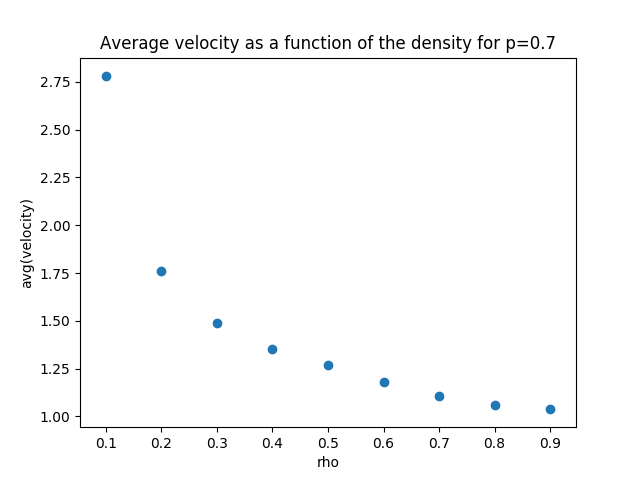
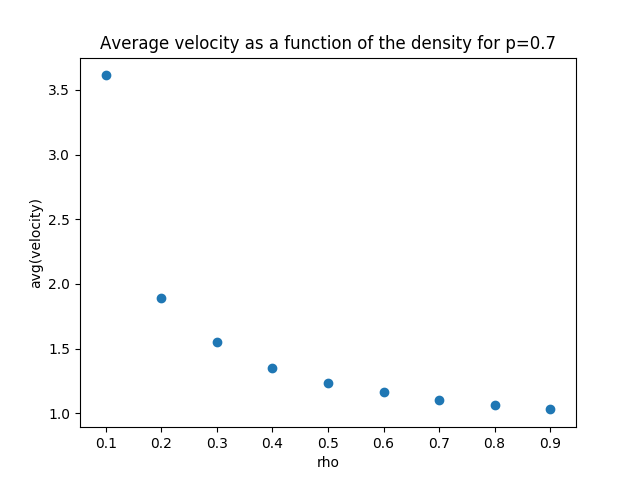
final results for the simple car traffic model

diff --git a/sem2/agent-based modelling/l5/model.py b/sem2/agent-based modelling/l5/model.py
@@ -24,7 +24,9 @@ def distance(m, road):
 def traffic_model(M, rho, p, I=10):
     N = int(M * rho)
     iterations = [0] * I
+    means = [0] * I
     iterations[0] = init_model(M, N)
+    means[0] = np.average(np.array([x for x in iterations[0] if x > -1]))
 
     for i in range(1, I):
         prev_road = iterations[i - 1]
@@ -44,8 +46,10 @@ def traffic_model(M, rho, p, I=10):
 
                 curr_road[(m + vel) % M] = vel  # move
         iterations[i] = curr_road
-    # return iterations
-    return iterations[-1]
+        means[i] = np.average(np.array([x for x in curr_road if x > -1]))
+
+    # return iterations[-1]
+    return means
 
 
 def animate(index):
@@ -73,7 +77,7 @@ def animate(index):
     return mat, curr_road
 
 
-def plot_avg_velocity():
+def plot_avg_velocity(M, I):
     R = np.arange(0.1, 1.0, 0.1)
     P = [0., .1, .5, .7]
     Res = []
@@ -81,9 +85,9 @@ def plot_avg_velocity():
         res = []
         for r in R:
             tmp = traffic_model(M, r, p, I)
-            tmp2 = np.array([x for x in tmp if x > -1])
+            # tmp2 = np.array([x for x in tmp if x > -1])
 
-            res.append(np.average(tmp2))
+            res.append(np.average(tmp))
 
         plt.scatter(R, res)
         plt.title('Average velocity as a function of the density for p=' + str(p))
@@ -107,7 +111,7 @@ if __name__ == '__main__':
     I = 1000
     M = 100
     p = 0.3
-    rho = .1  # .1, .2, .6
+    rho = .2  # .1, .2, .6
     # iterations = traffic_model(M, rho, p, I)
 
     N = int(M * rho)
@@ -117,3 +121,5 @@ if __name__ == '__main__':
     mat = ax.matshow(prev_road)
     ani = animation.FuncAnimation(fig, animate, interval=300)
     plt.show()
+
+    # plot_avg_velocity(M, 500)
